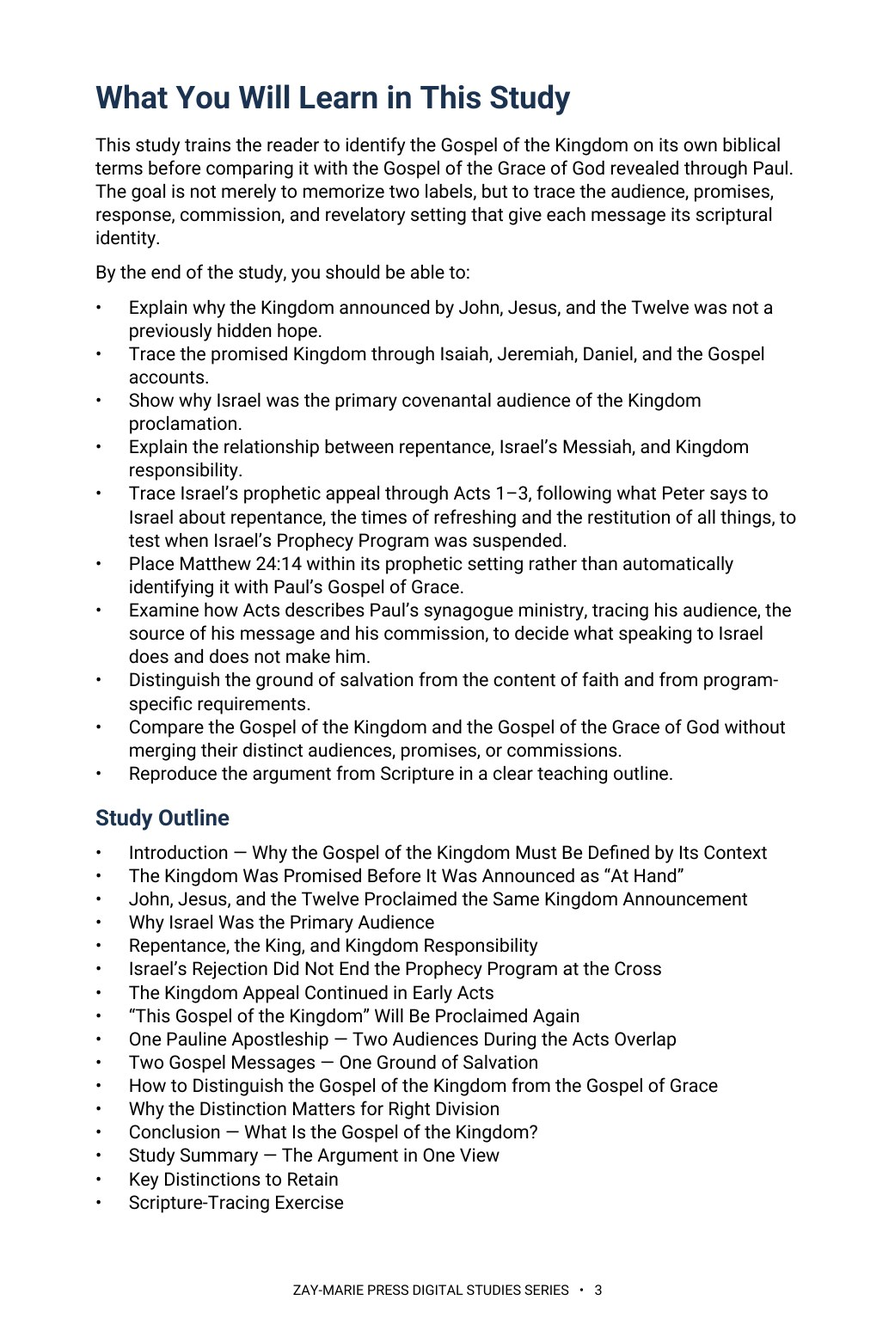
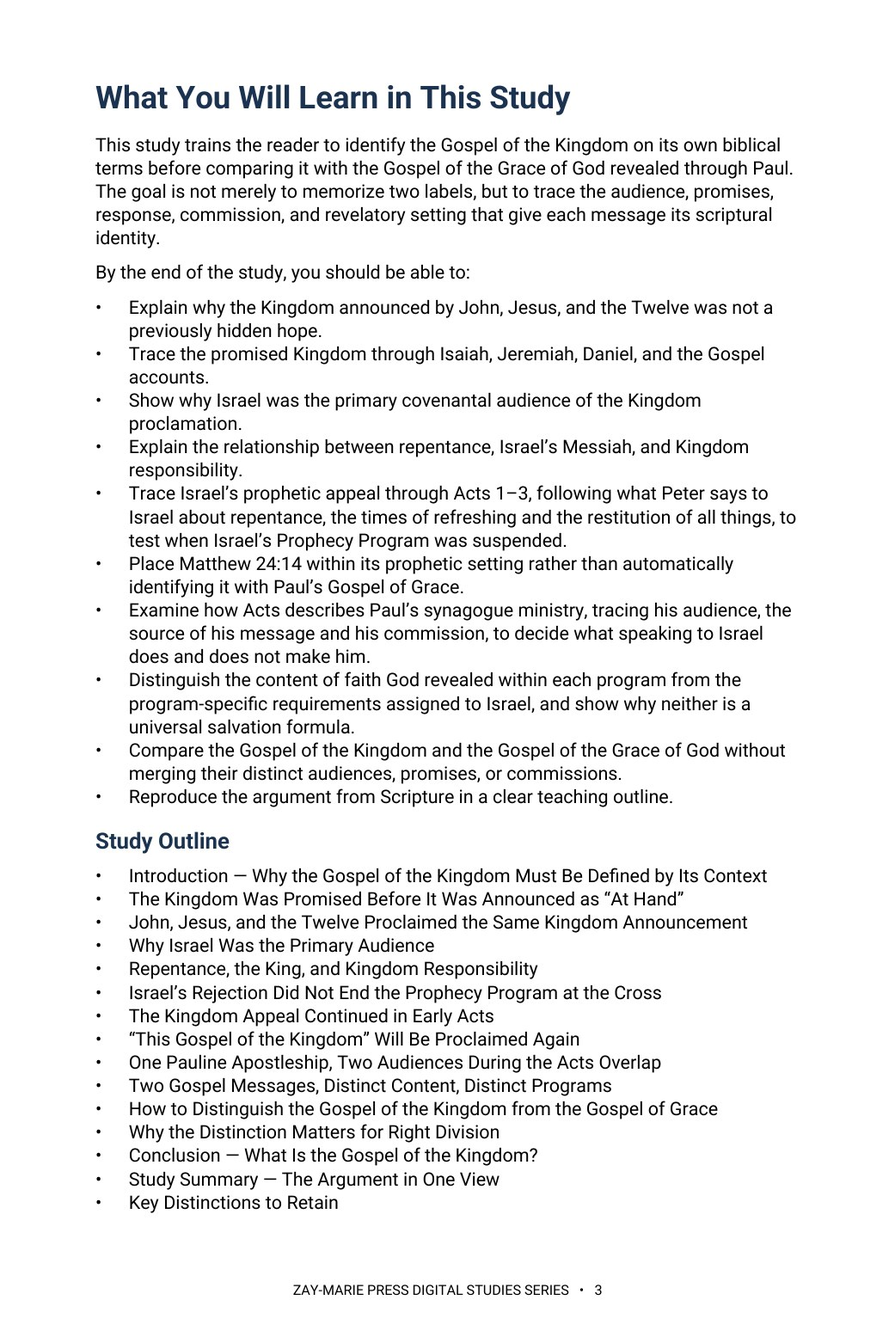
Study 2 second pass: publisher rewrite (19 pp), Rule 19 web copy, previews 2-4, site.js 2:19; trackers v1.50 / v1.144
Claude-Session: https://claude.ai/code/session_01KcENxFzE91mCRyTPWhcwnE

Changed region(s): [[0.0922, 0.4917, 0.8607, 0.9219]]

diff --git a/study-02-the-gospel-of-the-kingdom.html b/study-02-the-gospel-of-the-kingdom.html
@@ -23,13 +23,13 @@
 <header class="site-header"><div class="wrap nav"><a aria-label="Zay-Marie Press home" class="logo" href="index.html"><img alt="Zay-Marie Press" height="238" src="assets/zay-marie-press-logo-hq.png" width="420"/></a><button aria-controls="primary-nav" aria-expanded="false" class="menu-toggle" type="button">MENU</button><nav aria-label="Primary navigation" class="primary-nav" id="primary-nav"><a href="index.html">HOME</a><a href="books.html">BOOKS</a><a href="series.html">SERIES</a><a class="active" aria-current="page" href="digital-studies.html">DIGITAL STUDIES</a><a href="biblical-hermeneutics-course.html">COURSE</a><a href="about.html">ABOUT</a><a href="resources.html">RESOURCES</a><a href="contact.html">CONTACT</a></nav></div></header>
 <main>
 <section class="detail-hero"><div class="wrap detail-hero-grid"><div class="detail-cover"><img src="assets/study-02-cover.jpg" alt="The Gospel of the Kingdom — Study 2 cover"/></div><div><div class="eyebrow">STUDY 2 · DIGITAL STUDY</div><h1>The Gospel of the Kingdom</h1><p class="detail-subtitle">Israel, the Kingdom Message, and the Promises of God</p><p class="detail-kicker">A Biblical Examination of Audience, Promise, Commission, and Revelatory Setting</p><p class="detail-copy">Trace the Gospel of the Kingdom from Israel’s prophetic Scriptures through John, Jesus, the Twelve, and the early Acts appeal, then compare it carefully with the Gospel of the Grace of God revealed through Paul. This study distinguishes audience, promises, response, commission, and revelatory setting without merging Prophecy and Mystery.</p><div class="detail-buyline"><span class="detail-price">$5.99</span><span class="detail-format">Digital PDF</span><span class="detail-button pending" aria-disabled="true">Get the Study</span></div></div></div></section>
-<section class="detail-section"><div class="wrap"><div class="eyebrow">ABOUT THIS STUDY</div><h2>Why Must the Gospel of the Kingdom Be Defined by Its Context?</h2><p class="lead">The phrase “the gospel of the kingdom” is often treated as a general synonym for the message of salvation, but Scripture places it within a specific prophetic setting already known to Israel.</p><p class="lead">This study begins with the Kingdom promised in Isaiah, Jeremiah, and Daniel, traces its announcement through John the Baptist, Jesus Christ, and the Twelve, follows Israel’s prophetic appeal beyond the Cross into Acts, and then examines Paul during the Acts 9–28 overlap. The goal is to distinguish the Gospel of the Kingdom from the Gospel of the Grace of God without confusing distinct messages with different meritorious grounds of salvation.</p><p class="lead">This is not a study of Peter’s Pentecost appeal, which Study 20 reads in its own setting, nor of how Peter’s and Paul’s commissions run side by side, which Study 18 compares directly, nor of the vocabulary itself, which Study 41 settles before either message is read. Its task is narrower: to define the Kingdom announcement on its own terms — audience, content, and required response — and to test that definition against Study 43’s Gospel of the Grace of God, the message most likely to be confused with it.</p><div class="study-distinction"><h3>How These Studies Relate</h3><p>Study 2 establishes the Kingdom message: to whom it was announced, what it promised, and how its hearers were called to respond.</p><p><a href="study-20-understanding-acts-2-38.html">Study 20 — Understanding Acts 2:38</a> Examine Peter’s actual response to Israel at Pentecost, including repentance, baptism, remission, and the promised Spirit. The Kingdom setting clarifies why Acts 2:38 should be read in its own audience and prophetic setting.</p><p><a href="study-18-peter-and-paul-distinct-apostolic-commissions.html">Study 18 — Peter and Paul: Distinct Apostolic Commissions</a> Compare Peter’s and Paul’s commissions during the Acts overlap. Their distinct assignments explain why Peter’s Kingdom proclamation and Paul’s ministry must be compared without merging them.</p><p><a href="study-41-kingdom-of-god-or-kingdom-of-heaven.html">Study 41 — Kingdom of God or Kingdom of Heaven?</a> Settle what the Gospels mean by “kingdom of heaven” and “kingdom of God” before studying the Kingdom message; the two phrases name the one kingdom promised to Israel.</p><p><a href="study-43-the-gospel-of-the-grace-of-god.html">Study 43 — The Gospel of the Grace of God</a> Read Paul’s gospel defined on its own terms — its names, content, audience, and required faith — distinguished here from the Kingdom message without denying their shared ground in Christ’s finished work.</p><p class="connection-guide-link"><a href="study-connections.html#study-02">Explore the full connection guide for Study 2 →</a></p></div><div class="cross-strand-note"><p class="cross-strand-label">FROM THE PARABLES STRAND</p><p>The Sower and the Soils narrates the very announcement this study traces — read it to see the four responses the Kingdom message actually received.</p><p><a href="parable-sower.html">The Sower and the Soils</a></p></div></div></section>
-<section class="detail-section soft"><div class="wrap"><div class="eyebrow">WHAT YOU’LL STUDY</div><h2>Trace the Kingdom Message From Prophecy Through the Acts Overlap</h2><div class="study-points"><div class="study-point"><h3>The Kingdom Promised Before Matthew</h3><p>Establish the prophetic background of Messiah, David’s throne, Israel’s restoration, righteous government, and God’s rule among the nations.</p></div><div class="study-point"><h3>John, Jesus &amp; the Twelve</h3><p>Follow the same “at hand” Kingdom announcement through John the Baptist, Jesus Christ, and the Twelve.</p></div><div class="study-point"><h3>Israel as the Covenantal Audience</h3><p>Examine why the initial Kingdom proclamation was directed to Israel and how covenant, Messiah, and Kingdom promises identify its setting.</p></div><div class="study-point"><h3>The Prophetic Appeal After the Cross</h3><p>Use Acts 1–3 to see why Israel’s Prophecy Program continued after the resurrection rather than ending at the Cross.</p></div><div class="study-point"><h3>Paul During the Acts Overlap</h3><p>Distinguish Paul’s one Mystery apostleship from Prophecy truth he could communicate to Israel while both programs operated concurrently.</p></div><div class="study-point"><h3>Kingdom Gospel &amp; Gospel of Grace</h3><p>Compare audience, revealed content, promises, commission, and program while preserving the finished work of Christ as the saving ground.</p></div></div></div></section>
+<section class="detail-section"><div class="wrap"><div class="eyebrow">ABOUT THIS STUDY</div><h2>Why Must the Gospel of the Kingdom Be Defined by Its Context?</h2><p class="lead">The phrase “the gospel of the kingdom” is often treated as a general synonym for the message of salvation, but Scripture places it within a specific prophetic setting already known to Israel.</p><p class="lead">This study begins with the Kingdom promised in Isaiah, Jeremiah, and Daniel, traces its announcement through John the Baptist, Jesus Christ, and the Twelve, follows Israel’s prophetic appeal beyond the Cross into Acts, and then examines Paul during the Acts 9–28 overlap. The goal is to distinguish the Gospel of the Kingdom from the Gospel of the Grace of God without turning Israel’s program-specific requirements into a universal salvation formula or merging the two programs.</p><p class="lead">This is not a study of Peter’s Pentecost appeal, which Study 20 reads in its own setting, nor of how Peter’s and Paul’s commissions run side by side, which Study 18 compares directly, nor of the vocabulary itself, which Study 41 settles before either message is read. Its task is narrower: to define the Kingdom announcement on its own terms — audience, content, and required response — and to test that definition against Study 43’s Gospel of the Grace of God, the message most likely to be confused with it.</p><div class="study-distinction"><h3>How These Studies Relate</h3><p>Study 2 establishes the Kingdom message: to whom it was announced, what it promised, and how its hearers were called to respond.</p><p><a href="study-20-understanding-acts-2-38.html">Study 20 — Understanding Acts 2:38</a> Examine Peter’s actual response to Israel at Pentecost, including repentance, baptism, remission, and the promised Spirit. The Kingdom setting clarifies why Acts 2:38 should be read in its own audience and prophetic setting.</p><p><a href="study-18-peter-and-paul-distinct-apostolic-commissions.html">Study 18 — Peter and Paul: Distinct Apostolic Commissions</a> Compare Peter’s and Paul’s commissions during the Acts overlap. Their distinct assignments explain why Peter’s Kingdom proclamation and Paul’s ministry must be compared without merging them.</p><p><a href="study-41-kingdom-of-god-or-kingdom-of-heaven.html">Study 41 — Kingdom of God or Kingdom of Heaven?</a> Settle what the Gospels mean by “kingdom of heaven” and “kingdom of God” before studying the Kingdom message; the two phrases name the one kingdom promised to Israel.</p><p><a href="study-43-the-gospel-of-the-grace-of-god.html">Study 43 — The Gospel of the Grace of God</a> Read Paul’s gospel defined on its own terms — its names, content, audience, and required faith — distinguished here from the Kingdom message by audience, content, and programmatic authority.</p><p class="connection-guide-link"><a href="study-connections.html#study-02">Explore the full connection guide for Study 2 →</a></p></div><div class="cross-strand-note"><p class="cross-strand-label">FROM THE PARABLES STRAND</p><p>The Sower and the Soils narrates the very announcement this study traces — read it to see the four responses the Kingdom message actually received.</p><p><a href="parable-sower.html">The Sower and the Soils</a></p></div></div></section>
+<section class="detail-section soft"><div class="wrap"><div class="eyebrow">WHAT YOU’LL STUDY</div><h2>Trace the Kingdom Message From Prophecy Through the Acts Overlap</h2><div class="study-points"><div class="study-point"><h3>The Kingdom Promised Before Matthew</h3><p>Establish the prophetic background of Messiah, David’s throne, Israel’s restoration, righteous government, and God’s rule among the nations.</p></div><div class="study-point"><h3>John, Jesus &amp; the Twelve</h3><p>Follow the same “at hand” Kingdom announcement through John the Baptist, Jesus Christ, and the Twelve.</p></div><div class="study-point"><h3>Israel as the Covenantal Audience</h3><p>Examine why the initial Kingdom proclamation was directed to Israel and how covenant, Messiah, and Kingdom promises identify its setting.</p></div><div class="study-point"><h3>The Prophetic Appeal After the Cross</h3><p>Use Acts 1–3 to see why Israel’s Prophecy Program continued after the resurrection rather than ending at the Cross.</p></div><div class="study-point"><h3>Paul During the Acts Overlap</h3><p>Distinguish Paul’s one Mystery apostleship from Prophecy truth he could communicate to Israel while both programs operated concurrently.</p></div><div class="study-point"><h3>Kingdom Gospel &amp; Gospel of Grace</h3><p>Compare audience, revealed content, promises, commission, and program while keeping program-specific requirements distinct from the content of faith God revealed in each program.</p></div></div></div></section>
 <section class="detail-section cream"><div class="wrap"><div class="eyebrow">KEY SCRIPTURES</div><h2>Examine the Passages for Yourself</h2><div class="scripture-grid"><div class="scripture-card"><h3>Isaiah 9:6–7</h3><p>Places the promised Son upon David’s throne and describes the government and Kingdom already revealed in Prophecy.</p></div><div class="scripture-card"><h3>Jeremiah 23:5–8</h3><p>Promises a righteous Davidic King under whose reign Judah is saved and Israel dwells safely.</p></div><div class="scripture-card"><h3>Daniel 2:44</h3><p>Describes the Kingdom established by the God of heaven in relation to the kingdoms of this world.</p></div><div class="scripture-card"><h3>Matthew 3:1–2; 4:17</h3><p>Records John and Jesus announcing that Israel’s already-promised Kingdom had drawn near.</p></div><div class="scripture-card"><h3>Matthew 10:5–7</h3><p>Identifies Israel as the initial audience and records the Twelve proclaiming the same Kingdom announcement.</p></div><div class="scripture-card"><h3>Acts 1:6–8; 3:19–21</h3><p>Shows that Israel’s Kingdom expectation and prophetic appeal remained operative after the resurrection.</p></div><div class="scripture-card"><h3>Acts 9:15, 20–22</h3><p>Shows Paul’s distinctive calling while illustrating his ministry to Israel concerning her promised Messiah during the overlap.</p></div><div class="scripture-card"><h3>Acts 20:24; 1 Corinthians 15:1–4</h3><p>Provides Pauline testimony concerning the Gospel of Grace and the saving message proclaimed to the Body of Christ.</p></div></div></div></section>
 <section class="detail-section"><div class="wrap"><div class="eyebrow">FROM THE STUDY</div><h2>The Kingdom Was Promised Before It Was Announced as “At Hand”</h2><div class="excerpt"><blockquote>“The Kingdom itself was not newly revealed. The prophetic Kingdom had already been made known; what John and Jesus announced was that the promised Kingdom had drawn near because the promised King was present.”</blockquote><p>This distinction establishes the study’s starting point: the Gospel of the Kingdom belongs to Israel’s revealed prophetic hope. The study then follows that message through the Gospel accounts and Acts before comparing it with the previously hidden Mystery revealed through Paul.</p></div></div></section>
 <section class="detail-section soft"><div class="wrap"><div class="eyebrow">A LOOK INSIDE</div><h2>Preview the Study Before You Purchase</h2><p class="preview-instruction">Click any page to enlarge.</p><div class="preview-grid"><div class="preview-card"><a class="preview-image-link" href="assets/study-02-page-2.jpg" data-preview-lightbox><img src="assets/study-02-page-2.jpg" alt="Study 2 page 2 preview — Table of Contents"/></a><div class="page-no">Page 2</div><h3>Table of Contents</h3><p>See the full structure of the study, from the introduction through the final synthesis.</p></div><div class="preview-card"><a class="preview-image-link" href="assets/study-02-page-3.jpg" data-preview-lightbox><img src="assets/study-02-page-3.jpg" alt="Study 2 page 3 preview — What You Will Learn"/></a><div class="page-no">Page 3</div><h3>What You Will Learn</h3><p>See the study’s learning goals and the skills it builds for comparing the Gospel of the Kingdom with the Gospel of the Grace of God.</p></div><div class="preview-card"><a class="preview-image-link" href="assets/study-02-page-4.jpg" data-preview-lightbox><img src="assets/study-02-page-4.jpg" alt="Study 2 page 4 preview — Introduction"/></a><div class="page-no">Page 4</div><h3>Introduction</h3><p>See how the study frames its central question and the method it follows to answer it from Scripture.</p></div></div></div></section>
-<section class="detail-section"><div class="wrap"><div class="eyebrow">WHAT’S INCLUDED</div><h2>A Focused Study Built for<br/>Understanding and Teaching</h2><div class="includes-grid"><div class="include-item"><h3>18-Page In-Depth Biblical Study</h3><p>A focused examination that develops the Gospel of the Kingdom through sustained biblical argument rather than a brief overview.</p></div><div class="include-item"><h3>20 Study Sections</h3><p>Progress from the prophetic Kingdom promises through the Gospel accounts, Acts, Pauline revelation, comparison, and final synthesis.</p></div><div class="include-item"><h3>Study Summary &amp; Key Distinctions</h3><p>Reinforce the central argument and retain crucial distinctions such as promise versus nearness, ground versus content, and concurrency versus transfer.</p></div><div class="include-item"><h3>Scripture-Tracing Exercise</h3><p>Work through the principal passages in sequence and record what each text contributes before consulting the study’s conclusions.</p></div><div class="include-item"><h3>12 Review &amp; Discussion Questions</h3><p>Test comprehension of the Kingdom’s audience, prophetic setting, Acts chronology, Paul’s commission, and the distinction between the two gospel messages.</p></div><div class="include-item"><h3>Nine-Part Teaching Outline</h3><p>A ready framework for explaining the study’s argument from the prophets through Matthew, Acts, Paul, and the future Kingdom proclamation.</p></div><div class="include-item"><h3>Five Guided Further-Study Investigations</h3><p>Trace the Kingdom before Matthew, its announcement, the Acts appeal, Paul during the overlap, and the two gospel messages independently.</p></div><div class="include-item"><h3>Final Synthesis Exercise</h3><p>Bring the evidence together in a one-page explanation of the Kingdom gospel, its audience, its Acts continuation, and its distinction from the Gospel of Grace.</p></div></div></div></section>
-<section class="detail-section cream"><div class="wrap"><div class="final-buy"><div><div class="eyebrow">STUDY 2 · DIGITAL STUDY</div><h2>The Gospel of the Kingdom</h2><p>18-page digital PDF · For personal use</p></div><div class="final-offer"><div class="detail-price">$5.99</div><span class="detail-button pending" aria-disabled="true">Get the Study</span></div></div><a class="back-link" href="digital-studies.html">← Back to All Digital Studies</a></div></section>
+<section class="detail-section"><div class="wrap"><div class="eyebrow">WHAT’S INCLUDED</div><h2>A Focused Study Built for<br/>Understanding and Teaching</h2><div class="includes-grid"><div class="include-item"><h3>19-Page In-Depth Biblical Study</h3><p>A focused examination that develops the Gospel of the Kingdom through sustained biblical argument rather than a brief overview.</p></div><div class="include-item"><h3>20 Study Sections</h3><p>Progress from the prophetic Kingdom promises through the Gospel accounts, Acts, Pauline revelation, comparison, and final synthesis.</p></div><div class="include-item"><h3>Study Summary &amp; Key Distinctions</h3><p>Reinforce the central argument and retain crucial distinctions such as promise versus nearness, content versus requirements, and concurrency versus transfer.</p></div><div class="include-item"><h3>Scripture-Tracing Exercise</h3><p>Work through the principal passages in sequence and record what each text contributes before consulting the study’s conclusions.</p></div><div class="include-item"><h3>12 Review &amp; Discussion Questions</h3><p>Test comprehension of the Kingdom’s audience, prophetic setting, Acts chronology, Paul’s commission, and the distinction between the two gospel messages.</p></div><div class="include-item"><h3>Nine-Part Teaching Outline</h3><p>A ready framework for explaining the study’s argument from the prophets through Matthew, Acts, Paul, and the future Kingdom proclamation.</p></div><div class="include-item"><h3>Five Guided Further-Study Investigations</h3><p>Trace the Kingdom before Matthew, its announcement, the Acts appeal, Paul during the overlap, and the two gospel messages independently.</p></div><div class="include-item"><h3>Final Synthesis Exercise</h3><p>Bring the evidence together in a one-page explanation of the Kingdom gospel, its audience, its Acts continuation, and its distinction from the Gospel of Grace.</p></div></div></div></section>
+<section class="detail-section cream"><div class="wrap"><div class="final-buy"><div><div class="eyebrow">STUDY 2 · DIGITAL STUDY</div><h2>The Gospel of the Kingdom</h2><p>19-page digital PDF · For personal use</p></div><div class="final-offer"><div class="detail-price">$5.99</div><span class="detail-button pending" aria-disabled="true">Get the Study</span></div></div><a class="back-link" href="digital-studies.html">← Back to All Digital Studies</a></div></section>
 <section class="study-method-course-bridge"><div class="wrap"><div class="study-method-course-panel"><div><div class="eyebrow">BUILD THE INTERPRETIVE METHOD</div><h2>Want More Than a Focused Study?</h2><p>Digital Studies examine particular biblical subjects and difficult passages. The 40-lesson Biblical Hermeneutics course teaches a complete, repeatable method for establishing meaning in context, determining proper assignment, and making responsible application.</p></div><a class="btn btn-primary" href="biblical-hermeneutics-course.html">BIBLICAL HERMENEUTICS COURSE</a></div></div></section></main><div class="preview-lightbox" id="preview-lightbox" role="dialog" aria-modal="true" aria-label="Enlarged study page preview"><button class="preview-lightbox-close" type="button" aria-label="Close enlarged preview">×</button><img src="" alt=""/><div class="preview-lightbox-hint">Scroll to read the full page · Press Esc or click outside the page to close</div></div>
 <footer class="site-footer"><div class="wrap footer-grid"><div class="footer-about"><h3>Zay-Marie Press</h3><p class="footer-tagline"><em>Where the Bible Means What It Says.</em></p><p>Zay-Marie Press is a Christian theological publisher dedicated to producing doctrinally precise, carefully structured biblical resources that equip pastors, teachers, and serious students with clarity, depth, and Scripture-anchored truth.</p><p><a href="https://zaymariepress.com">zaymariepress.com</a><br/><a href="mailto:info@zaymariepress.com">info@zaymariepress.com</a></p></div><div class="footer-column"><h3>Explore</h3><div class="footer-links-stacked"><a href="books.html">Books</a><br/><a href="series.html">Series</a><br/><a href="biblical-hermeneutics-course.html">Course</a><br/><a href="digital-studies.html">Digital Studies</a><br/><a href="resources.html">Resources</a><br/><a href="bible-book-summaries.html">Bible Book Summaries</a><br/><a href="doctrinal-packets.html">Doctrinal Packets</a><br/><a href="historical-drift.html">Historical Drift</a><br/><a href="about.html">About</a><br/><a href="contact.html">Contact</a></div></div><div class="footer-column"><h3>Reader Support</h3><div class="footer-links-stacked"><a href="reader-support.html#faq">FAQ</a><br/><a href="reader-support.html#shipping-returns">Shipping &amp; Returns</a><br/><a href="reader-support.html#digital-downloads">Digital Downloads</a><br/><a href="reader-support.html#contact-support">Contact Support</a></div></div><div class="footer-column"><h3>Acts Overlap</h3><p><strong>Acts Overlap Theology Series</strong></p><p><em>Two Distinct Streams. One Overlap.</em></p><p><a href="series.html">Series Overview</a></p></div></div><div class="wrap footer-bottom">© 2026 Zay-Marie Press. All rights reserved.</div></footer>
 <script src="site.js"></script><script>(function(){var box=document.getElementById("preview-lightbox"),img=box.querySelector("img"),close=box.querySelector(".preview-lightbox-close"),hint=box.querySelector(".preview-lightbox-hint"),hintTimer;function shut(){clearTimeout(hintTimer);box.classList.remove("open");hint.classList.remove("fade");document.body.style.overflow="";img.src="";}document.querySelectorAll("[data-preview-lightbox]").forEach(function(a){a.addEventListener("click",function(e){e.preventDefault();clearTimeout(hintTimer);img.src=a.getAttribute("href");img.alt=a.querySelector("img").alt;hint.classList.remove("fade");box.classList.add("open");document.body.style.overflow="hidden";box.scrollTop=0;hintTimer=setTimeout(function(){hint.classList.add("fade");},3000);});});close.addEventListener("click",shut);box.addEventListener("click",function(e){if(e.target===box)shut();});document.addEventListener("keydown",function(e){if(e.key==="Escape"&&box.classList.contains("open"))shut();});})();</script>

diff --git a/site.js b/site.js
@@ -62,7 +62,7 @@ const resourceModal=document.querySelector('#resource-modal'), resourceModalTitl
 if(resourceModal&&resourceModalTriggers.length){const closeResourceModal=()=>{resourceModal.hidden=true;document.body.classList.remove('resource-modal-open');lastResourceTrigger?.focus();};resourceModalTriggers.forEach(trigger=>trigger.addEventListener('click',()=>{lastResourceTrigger=trigger;if(resourceModalTitle)resourceModalTitle.textContent=trigger.dataset.title||'Resource';if(resourceModalDescription)resourceModalDescription.textContent=trigger.dataset.description||'';if(resourceModalLink){resourceModalLink.href=trigger.dataset.href||'#';resourceModalLink.textContent=trigger.dataset.linkText||'OPEN RESOURCE';}resourceModal.hidden=false;document.body.classList.add('resource-modal-open');resourceModalClose?.focus();}));resourceModalClose?.addEventListener('click',closeResourceModal);resourceModal.addEventListener('click',e=>{if(e.target===resourceModal)closeResourceModal();});document.addEventListener('keydown',e=>{if(e.key==='Escape'&&!resourceModal.hidden)closeResourceModal();});}
 
 /* Display the verified final-PDF page count at the primary purchase decision point. */
-const digitalStudyPageCounts={1:17,2:18,3:16,4:18,5:16,6:16,7:14,8:13,9:16,10:20,11:15,12:15,13:19,14:15,15:15,16:16,17:18,18:18,19:16,20:16,21:17,22:16,23:14,24:16,25:17,26:16,27:16,28:16,29:19,30:17,31:18,32:19,33:18,34:16,35:16,36:16,37:16,38:16,39:16,40:16,41:16,42:16,43:16,44:16,45:16,46:16,47:16,48:16,49:17,50:16,51:16,52:16,53:16,54:16,55:16,56:16,57:16,58:16,59:16,60:18,61:16,62:16,63:16,64:16,65:16,66:16,67:16,68:16,69:16,70:16,71:16};
+const digitalStudyPageCounts={1:17,2:19,3:16,4:18,5:16,6:16,7:14,8:13,9:16,10:20,11:15,12:15,13:19,14:15,15:15,16:16,17:18,18:18,19:16,20:16,21:17,22:16,23:14,24:16,25:17,26:16,27:16,28:16,29:19,30:17,31:18,32:19,33:18,34:16,35:16,36:16,37:16,38:16,39:16,40:16,41:16,42:16,43:16,44:16,45:16,46:16,47:16,48:16,49:17,50:16,51:16,52:16,53:16,54:16,55:16,56:16,57:16,58:16,59:16,60:18,61:16,62:16,63:16,64:16,65:16,66:16,67:16,68:16,69:16,70:16,71:16};
 const digitalStudyMatch=window.location.pathname.match(/\/study-(\d+)-/i);
 const digitalStudyFormat=document.querySelector('.detail-hero .detail-format');
 if(digitalStudyMatch&&digitalStudyFormat){const studyNumber=Number(digitalStudyMatch[1]),pageCount=digitalStudyPageCounts[studyNumber];if(pageCount)digitalStudyFormat.textContent=`Digital PDF · ${pageCount} Pages`;}

diff --git a/controlling-documents/Doctrinal_Upgrade_Retrofit_Plan_v1.50.md b/controlling-documents/Doctrinal_Upgrade_Retrofit_Plan_v1.50.md
@@ -57,7 +57,7 @@ Working tracker for correcting published studies to the Framework/PAM v1.1, Mast
 | 18 Peter and Paul | Tier 2 read (Rule 18, overlap, Rule 17, Rule 11, Acts 28, Romans 11, Colossians and 2 Peter anchor, internal terms) | DONE 2026-10-03 (v1.47): rebuilt from the publisher PDF (432x649) to the Study 52 page geometry at 10 pt body (18 pp, Roboto). Two 'framework' phrasings reworded; Rule 18 full sentence plus short form after the synagogue mention; overlap, Rule 17, Rule 11 and Romans 11 four-boundary sentences added; Acts 28 now national judicial suspension, not abolition and not a transfer; Colossians and 2 Peter anchor added. Cover FOUNDATIONS unchanged; comparison image carried over. Website: site.js 18:18 unchanged, previews 2, 3, 6 re-rendered at 1041x1562. |
 | 15 Faith and Works in James and Paul | Tier 2 read (James anchor, Titus citation, overlap, Rule 17, internal terms) | DONE 2026-10-03 (v1.48): rebuilt from the publisher PDF (432x649) to the Study 52 page geometry at 10 pt body (16 → 15 pp, Roboto; layout-only tightening on the final section — headings 8 pt before, imprint 5 pt before — to keep the imprint on a page with content). Five 'framework' phrasings and the table row 'Covenantal framework' reworded; overlap and Rule 17 sentences added; James and Titus anchor added (Titus ruling: same treatment as 1 Timothy); Review questions restart at 1. Website: site.js 15:15, static page text 15, previews 2, 3, 5 re-rendered at 1041x1562. |
 | 16 The Believer’s Identity in Christ | Tier 3 read (Spirit baptism wording, Body is not Israel, Jewish member of the Body, Philippians/Colossians anchor, internal terms) | DONE 2026-10-03 (v1.48): rebuilt from the publisher PDF (432x649) to the Study 52 page geometry at 10 pt body (16 pp, Roboto). 'Under the Framework' reworded to 'On this reading'; overlap and Rule 17 sentences added in 'The Body Is Not Israel'; Jewish-member-of-the-Body line added after 1 Corinthians 12:13; Philippians and Colossians anchor added. Website: site.js 16:16 unchanged, previews 2, 3, 5 re-rendered at 1041x1562. |
-| 2 The Gospel of the Kingdom | Tier 2 read (Rule 18 synagogue section, Acts 28, overlap, Rule 17, callout count, front copyright page, internal terms) | DONE 2026-10-03 (v1.49): rebuilt from the publisher PDF (Letter, 9 pt) to the Study 52 page geometry at 10 pt body (14 → 18 pp, Roboto Regular/Bold/Italic/BoldItalic). Front copyright page removed (imprint only); Study Outline converted to an unnumbered bullet list matching the body; Teaching Outline Roman numerals removed; Scripture-Tracing converted to a Passage/Trace table; 12 callouts reduced to five (seven became body paragraphs with bold run-in leads); site cover (ISRAEL & PROPHECY) used. Rule 18 full sentence and short form, overlap and Rule 17 sentences added in section 8; Acts 28 callouts now 'not abolition and not a transfer'. Website: site.js 2:18, page text 18, previews now pages 2, 3, 4 (TOC, What You Will Learn, Introduction) at 1041x1562; old page-4 and page-6 images replaced or removed. |
+| 2 The Gospel of the Kingdom | Tier 2 read (Rule 18 synagogue section, Acts 28, overlap, Rule 17, callout count, front copyright page, internal terms) | DONE 2026-10-03 (v1.49): rebuilt from the publisher PDF (Letter, 9 pt) to the Study 52 page geometry at 10 pt body (14 → 18 pp, Roboto Regular/Bold/Italic/BoldItalic). Front copyright page removed (imprint only); Study Outline converted to an unnumbered bullet list matching the body; Teaching Outline Roman numerals removed; Scripture-Tracing converted to a Passage/Trace table; 12 callouts reduced to five (seven became body paragraphs with bold run-in leads); site cover (ISRAEL & PROPHECY) used. Rule 18 full sentence and short form, overlap and Rule 17 sentences added in section 8; Acts 28 callouts now 'not abolition and not a transfer'. Website: site.js 2:18, page text 18, previews now pages 2, 3, 4 (TOC, What You Will Learn, Introduction) at 1041x1562; old page-4 and page-6 images replaced or removed. SECOND PASS 2026-10-03 (v1.50): publisher rewrote sections 4–11 and the Conclusion; Framework Rule 19 added (no shared saving ground; content of faith by program); interior rebuilt (19 pp, layout-only back-matter spacing tightening to avoid an orphan imprint page, list-end spacing fixed, Study Outline last bullet fixed); previews 2, 3, 4 re-rendered; site.js 2:19; website copy (About, Study 43 line, What You’ll Study point 6, What’s Included) rewritten. |
 | 39 The Church's Relationship to Israel's Scriptures | Abrahamic/covenant participation + overlap sentence | DONE 2026-10-02 (v1.23): interior corrected (16 pp, Roboto). Withdrawn overlap sentence replaced with the standing sentence and Acts 28 'not abolition and not a transfer' added (§9); 'Gentiles participate spiritually' replaced by the standing Galatians 3 sentence (§8) and 'whole/every covenant term' partial-transfer wording tightened (§8, Study Summary, Key Distinctions table); Romans 11 four-point list and triad added (Introduction); 2 Timothy and Philippians anchors converted and a Colossians anchor added. Sections moved down: TOC updated (7 numbers); 16 pp. Website: previews 2, 3, 5 re-rendered at 1041x1565; site.js 39:16 unchanged |
 | 40 Who Is Abraham's Seed? | Gal 3 / Abrahamic participation (core) | DONE 2026-10-02 (v1.22): interior corrected (16 pp, Roboto). Withdrawn overlap sentence replaced with the standing sentence (Introduction); Romans 11 four-point list and triad added (Introduction); the 'Gentiles participate spiritually / Abrahamic heirship, benefit, inheritance, connection' family replaced with the standing Galatians 3 sentence and plain wording (§6, §8, §10, Study Summary, Key Distinctions table); Romans 4 'participate in promise' and Teaching Outline 'share that benefit' reworded. Sections moved down: TOC updated (Conclusion p10, Scripture-Tracing p11, Guided Further Study p16); 16 pp. Website: preview pages 2, 3 and 4 re-rendered; site.js 40:16 unchanged |
 | 52 Sonship and Adoption | Gal 3 / Abrahamic participation | DONE 2026-10-02 (v1.21): interior corrected (16 pp, Roboto). Withdrawn Galatians 3:26–29 'Gentiles participate spiritually / ethnic distinction is kept' wording replaced by the standing Galatians 3 sentence (3.4) and the 'participation in the seed is spiritual' line reworded; Study 40 pointer parenthetical removed; nine 'The Framework does not assign…' anchors and the Hebrews sentence converted to the reader-facing forms; Romans 11 four-point list and triad added (Group 3). Shorter anchors moved sections up a page, so TOC numbers updated (§5 p9, §6 p11, Conclusion p12, etc.); total still 16 pp. Website: page-2 (TOC) preview re-rendered; pages 3 and 5 unchanged |
@@ -141,3 +141,5 @@ Working tracker for correcting published studies to the Framework/PAM v1.1, Mast
 - v1.47 (2026-10-03): Study 18 retrofit complete (see row). Next: Studies 15, 16, 2, 59, 60 rebuilds and the remaining Wave 5 items.
 - v1.48 (2026-10-03): Studies 15 and 16 retrofit complete (see rows). Titus anchor ruled: same treatment as 1 Timothy ("This reading of James and Titus rests on the letters’ own audience markers and setting." in Study 15). Next: Studies 2, 59, 60.
 - v1.49 (2026-10-03): Study 2 retrofit complete (see row). Next: Studies 59 and 60 (non-Roboto production masters), then the remaining Wave 5 items.
+
+- v1.50 (2026-10-03): Study 2 second pass (publisher rewrite) complete. Framework Rule 19 / Master Standard v1.49 added: the "Shared Ground" and "Ground of Salvation" statements are withdrawn. Search of the site for the withdrawn wording (reported, not changed): digital-studies.html, new-testament-and-new-covenant.html, study-12, study-15, study-31, study-43, study-54, study-connections.html, resource-library.js and resource-library-overrides.js carry "finished work" / "ground" wording to be judged when each study is reopened. Next: Studies 59 and 60.

diff --git a/CLAUDE.md b/CLAUDE.md
@@ -22,7 +22,7 @@ These are kept in the repo at `controlling-documents/` and are the current versi
 - As of v1.49 (publisher directive, 2026-10-03), §20 adds **Rule 19 (Ground of salvation and content of faith)**, written into the Framework (new Rule 19 at the end of §XIX, and the "Shared Ground" and "Ground of Salvation" statements in §VII and §VIII, both places, replaced) in the same pass: salvation is always by faith, never by merit, but the content of faith is what God revealed within each program. Prophecy saints before the Cross (Abraham, Moses, David) were saved by believing the content God had revealed to them, not Pauline revelation and not the finished work of Christ, which had not yet been revealed; the Body is saved by believing Pauline revelation, the gospel of the grace of God, through faith alone; program-specific requirements (repentance, baptism, covenant fidelity, Kingdom readiness) are never grounds of salvation, never Pauline faith-alone doctrine, and never transfer to the Body; no shared saving ground is stated. WITHDRAWN and not to be used: "both messages rest on the finished work of Christ", "the ground of salvation is always the grace of God and the finished work of Christ", "shared ground in Christ's finished work", "Ground vs. Content" framed as a shared ground. Rule 10 now reads "Rules 1–9 and 11–19". Studies carrying the withdrawn wording (to be confirmed by search; Studies 12, 15, 31, 43 and 54 are suspected) are corrected when reopened or when the publisher directs; Study 2 is the first written to it. The Master Standard v1.49 (DOCX and PDF) carries the same rule; see its §22.
 **`controlling-documents/Digital_Studies_Relationship_Map_v1.39.md`** — records each study's distinct subject, its related studies, the eight priced six-study collections, the Paul's Missionary Journeys cross-reference map, and the five primary catalog categories (currently version 1.39, covers Studies 1–71; update it as new studies publish, bump the version number, rename the file to match, and log the change in its own version-history table — mirroring the Master Standard's `_vX.Y` filename convention). Check a proposed topic against it before recommending or writing a new study. (2026-09-28: the file was missing from this repo despite this note referencing it; replaced from the publisher's copy and bumped v1.15→v1.25 in the same pass. If this note ever again points to a version not present under `controlling-documents/`, ask the publisher for a copy rather than proceeding without the check.)
 - **`controlling-documents/Digital_Studies_Category_Standard_v1.1.md`** — FINAL and binding (publisher, 2026-10-01): the rules for the five primary catalog categories (Foundations, Israel & Prophecy, Body of Christ, Passages, Doctrinal Themes), the ordered decision procedure for new studies, the precedents, all 71 fixed assignments, and the cover-label form for each category. Read it before placing any card or cover label. Do not ask the publisher where a study belongs; apply the procedure and state the result. Only the publisher changes a ruling; then bump this Standard's version and filename, re-letter the cover, and update the Relationship Map.
-- **`controlling-documents/Doctrinal_Upgrade_Retrofit_Plan_v1.49.md`** — working tracker for retrofitting Studies 1–59 to the 2026-10-02 doctrinal upgrade (Framework/PAM v1.1, Master Standard v1.40, Rules 7–17): withdrawn-wording search keys, impact tiers, waves and the per-study method. Read it before continuing the retrofit in any session; update status, bump the version and rename the file as work proceeds.
+- **`controlling-documents/Doctrinal_Upgrade_Retrofit_Plan_v1.50.md`** — working tracker for retrofitting Studies 1–59 to the 2026-10-02 doctrinal upgrade (Framework/PAM v1.1, Master Standard v1.40, Rules 7–17): withdrawn-wording search keys, impact tiers, waves and the per-study method. Read it before continuing the retrofit in any session; update status, bump the version and rename the file as work proceeds.
 - **`controlling-documents/Doctrinal_Packet_Standard_v0.3.md`** — Doctrinal Packet Standard (DRAFT; §7 approved). Governs the separate Doctrinal Packets product strand (5-page interpretive PDFs per Bible book — a print-friendly cover as page 1 plus 4 content pages, $2.99, KJV, pilot: Genesis, live at `packet-genesis.html`, hub `doctrinal-packets.html`; site pages say "5 Pages", cover styles live in `packets.css`, Old Testament blue and New Testament soft pale green, hub listed in Bible order). **Preview rule (publisher directive, 2026-09-29, packets only):** previews show about one page's worth in two cropped views (top of page 1 through the anchor texts; the chart section) — never the exegesis, architecture, Mystery contrast, logic chain, outline, or closing. Master Standard §16/§17 still govern Digital Studies. Bump the version and rename the file as the Standard is finalized.
 - **`controlling-documents/Preview_Page_Spoiler_Retrofit_Audit_v1.4.md`** — working tracker for the Studies 1–60 preview-page conclusion-spoiler retrofit (see the section below). Read it before continuing that audit in any session; update its status fields and changelog, bump the version, and rename the file to match as the audit proceeds — same `_vX.Y` convention as the other controlling documents. As of v1.1, the website-side half was DONE: all 60 studies' "What You'll Study" text was judged against the rule (methodology documented in the file) and 22 points across 11 studies were rewritten and pushed; an unrelated Study 22 content bug (Study 21's content had leaked into it) was also found and fixed. As of v1.2, the publisher supplied Studies 1–60's interior production PDFs and the interior-PDF half was also surveyed (read-only): 10 studies (37, 41, 45, 47, 48, 49, 51, 52, 53, 54) were found to have at least one interior "What You Will Learn" violation, 50 studies were confirmed compliant, and the orphaned `assets/study-45-sanctification-under-grace.docx` (removed from the repo per the publisher in v1.0) was confirmed word-for-word identical to Study 45's actual production interior PDF content. As of v1.3, the publisher supplied editable DOCX sources for all 10 violating studies; all 15 violating points were rewritten and approved, delivered as corrected final PDFs, and — along the way — a second defect was found and fixed (Studies 47 and 48's source DOCX still had an unintegrated cover placeholder despite both being long-published live with real covers; fixed by inserting the existing approved cover art). The website's "What You Will Learn" preview image (`study-NN-page-3.jpg`) was regenerated from the corrected content for all 10 studies and pushed to `main` (commit `cea1859`), verified against a fresh clone. **The website side of this audit is now fully compliant for all 60 studies.** Outstanding: the publisher's purchasable interior PDF files themselves have corrected versions delivered, but distribution to existing purchasers was decided by the publisher on 2026-09-29: silent swap of the files behind the existing downloads, no reissue notice (recorded in the v1.4 changelog entry; the product files are not in this repo).
 

diff --git a/controlling-documents/Digital_Studies_PAM_Audit_v1.144.md b/controlling-documents/Digital_Studies_PAM_Audit_v1.144.md
@@ -373,3 +373,4 @@ Study 15 PDF not yet supplied. Typography: none of Studies 2, 3, 6, 8 is in EB G
 - v1.141 (2026-10-03): Study 18 interior rebuilt (18 pp, 10 pt, Roboto); Rule 18, overlap, Rule 17, Rule 11, Romans 11 boundaries and Colossians/2 Peter anchor applied; previews 2, 3, 6 re-rendered.
 - v1.142 (2026-10-03): Studies 15 and 16 interiors rebuilt (15 pp and 16 pp, 10 pt, Roboto); anchors, overlap, Rule 17 applied; previews re-rendered; Study 15 site.js 15:15 and static page text corrected.
 - v1.143 (2026-10-03): Study 2 interior rebuilt (18 pp, 10 pt, Roboto, five callouts, no front copyright page); Rule 18, overlap, Rule 17 applied; previews moved to pages 2, 3, 4; site.js 2:18.
+- v1.144 (2026-10-03): Study 2 second pass: publisher rewrite of sections 4–11 and the Conclusion integrated; Rule 19 (no shared saving ground) applied; Rule 18, overlap, Rule 17 and Acts 28 wording conformed; "Acts Overlap Theology" and "Prophetic Accommodation" removed; interior rebuilt (19 pp, 10 pt, Roboto); previews 2, 3, 4 re-rendered; site.js 2:19; web copy updated.
